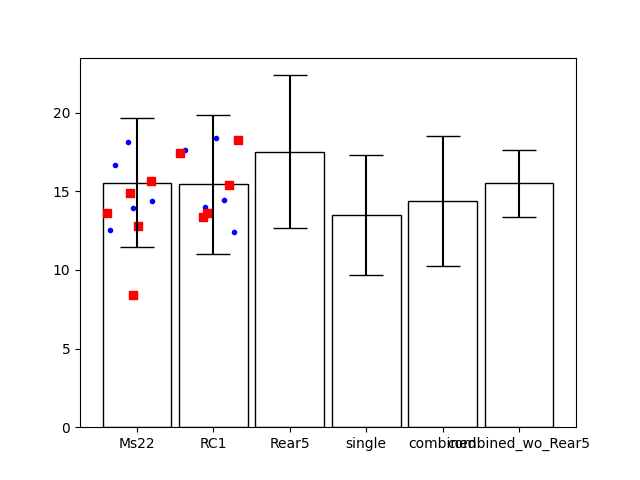
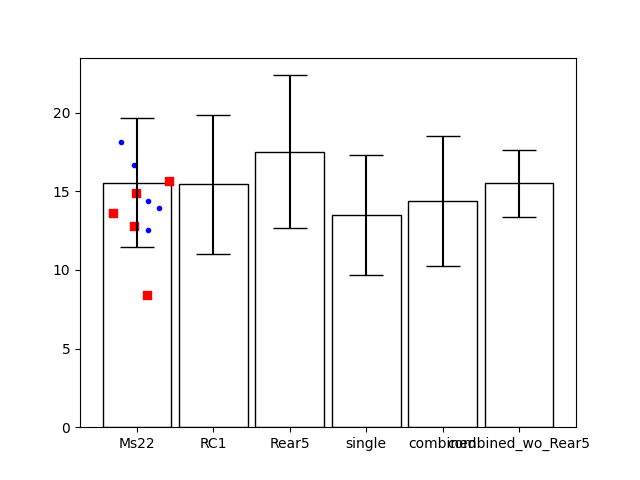
DLC udpate

diff --git a/DeepLabCut/DLC_jump_analysis/all_trackers/jump_analysis.py b/DeepLabCut/DLC_jump_analysis/all_trackers/jump_analysis.py
@@ -7,8 +7,10 @@ import numpy as np
 import os
 
 full_path_directory = "C:/Users/7teal/Coding Projects/Undergrad-Projects/DeepLabCut/DLC_jump_analysis/all_trackers/"
+temp_full_path_directory = "C:/Users/7teal/Coding Projects/Undergrad-Projects/DeepLabCut/DLC_jump_analysis/all_trackers/"
 nose_directory = "csv_nose_files"
 rump_directory = "csv_rump_files"
+temp_nose_dir = "csv_files"
 
 
 def main(full_path, relative_path, fname1, fname2):
@@ -33,44 +35,51 @@ def main(full_path, relative_path, fname1, fname2):
     print(combined_values)
     combined_values_wo_Rear5 = combined_values[0:10]
     print(combined_values_wo_Rear5)
-    Ms22_values = dataframes_list[1]
-    RC1_values = dataframes_list[2]
-    Rear5_values = dataframes_list[3]
-    single_values = dataframes_list[4]
+    Ms21_values = dataframes_list[1]
+    single_values = dataframes_list[2]
+
+    # Ms22_values = dataframes_list[1]
+    # RC1_values = dataframes_list[2]
+    # Rear5_values = dataframes_list[3]
+    # single_values = dataframes_list[4]
     #Order of single trackers: Ms22, RC1, Rear5
-
- 
-
   
 
     w = .9 # bar width
-    x1 = [1, 2]
+    x1 = [1]
     x2 = [1, 2, 3, 4, 5, 6]
     colors1 = ['red','blue']
     colors2 = ['red','blue', 'green', 'purple', 'orange', 'brown']
     y1 = single_values, combined_values_wo_Rear5
     y2 = Ms22_values, RC1_values, Rear5_values
     y3 = Ms22_values, RC1_values, Rear5_values, single_values, combined_values, combined_values_wo_Rear5
-    #y4 = single_trackers_df, combined_new_df_values, avg_new_df_values
-
+    y4 = combined_values, Ms21_values, single_values
+    #y5 = single_trackers_df, combined_new_df_values, avg_new_df_values
 
     #AVG THE VALUES FROM 3 SINGLE TRACKERS
     avg_per_tracker =[np.mean(yi) for yi in y2]
     print(avg_per_tracker)
     avg_all_trackers = np.mean(avg_per_tracker)
+    std_dev_all_trackers = np.std(avg_per_tracker)
     print(avg_all_trackers)
 
+    y4 = avg_all_trackers
+    
 
     figure1 = plt.figure(1)
     plt.bar(x2,
-           height=[np.mean(yi) for yi in y3],
-           yerr=[np.std(yi) for yi in y3],    # error bars
+           height=[np.mean(yi) for yi in y4],
+           yerr=[np.std(yi) for yi in y4],    # error bars
            capsize=12, # error bar cap width in points
            width=w,    # bar width
            tick_label=['Ms22', 'RC1', 'Rear5', 'single', 'combined', 'combined_wo_Rear5'],
            color=(0,0,0,0),  # face color transparent
            edgecolor=['black'],
          )
+
+    exact_values=[np.mean(yi) for yi in y3]
+    print(exact_values)
+
 
 
 
@@ -83,11 +92,6 @@ def main(full_path, relative_path, fname1, fname2):
         #plt.scatter(x1[i] + np.random.random(a[10:15].size) * w - w / 2, a[10:15], color=colors1[0], marker = "*") #star marker = Rear5
 
     
-    os.chdir(current_dir + '/saved_figs')
-    plt.savefig(fname1, dpi=100)
-    plt.show()
-    plt.close()
-
 
 
     # figure2 = plt.figure(2)
@@ -191,4 +195,4 @@ def main(full_path, relative_path, fname1, fname2):
     # plt.show()
 
 
-main(full_path_directory, nose_directory, "nose_results_1.png", "nose_results_2.png")#, "nose_results_2.png")
+main(temp_full_path_directory, temp_nose_dir , "nose_results_1.png", "nose_results_2.png")#, "nose_results_2.png")
